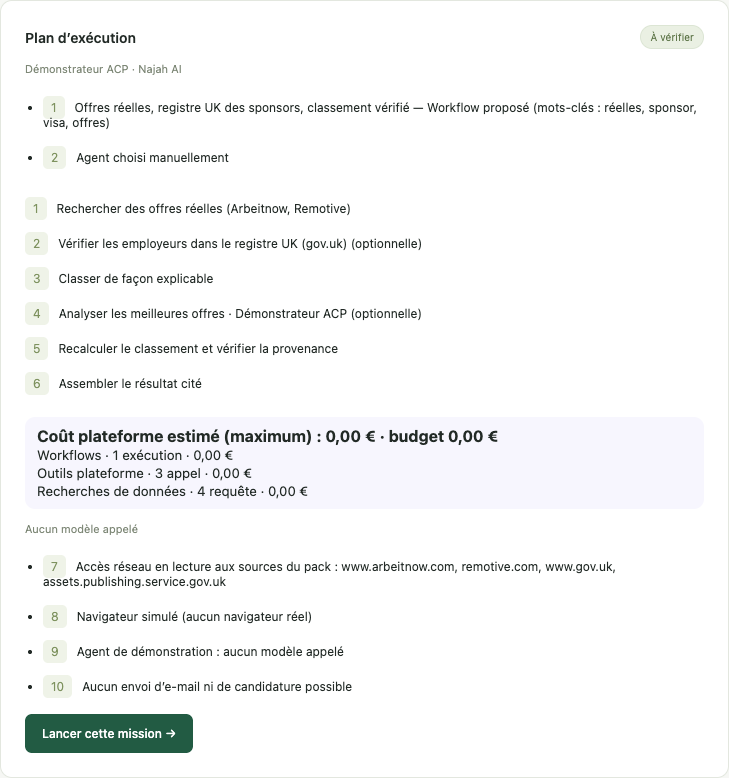
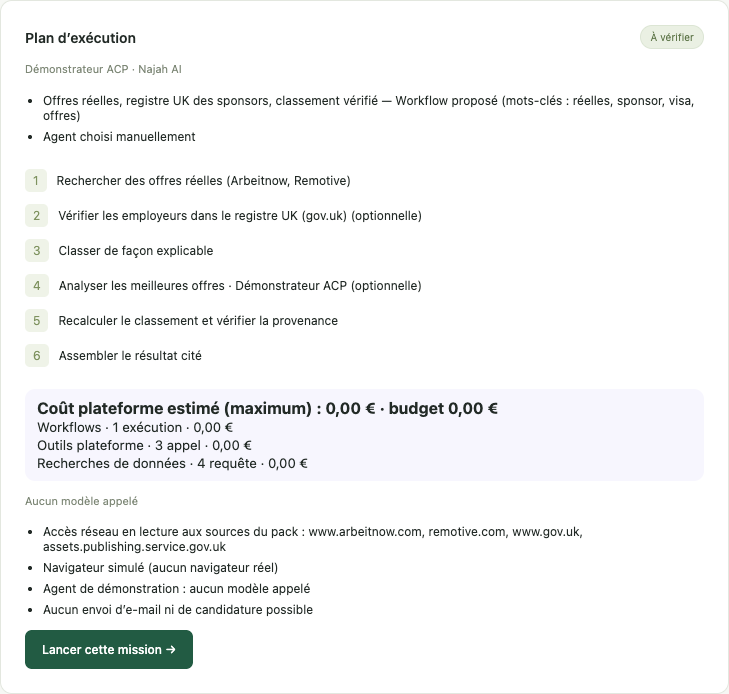
UI : numérotation réservée aux étapes du plan

diff --git a/apps/web/style.css b/apps/web/style.css
@@ -434,12 +434,12 @@ input {
   list-style: none;
   counter-reset: step;
 }
-.plan-panel li {
+.plan-panel ol > li {
   font-size: 12px;
   padding: 10px 0;
   counter-increment: step;
 }
-.plan-panel li:before {
+.plan-panel ol > li:before {
   content: counter(step);
   background: #eff3e8;
   padding: 4px 8px;
@@ -752,4 +752,8 @@ footer span {
 }
 #result > .pill {
   margin-right: 8px;
+}
+.plan-panel ul.routing li {
+  font-size: 12px;
+  padding: 3px 0;
 }
